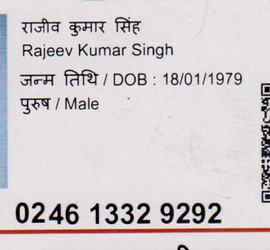
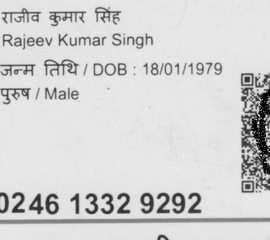
Implement Aadhar with GvisonAI

Changed region(s): [[0.0, 0.0, 1.0, 0.8167], [0.0, 0.7875, 1.0, 0.9625], [0.563, 0.9625, 0.7111, 1.0]]

diff --git a/Server/components/pancard.js b/Server/components/pancard.js
@@ -3,7 +3,7 @@ const sharp = require("sharp");
 const fs = require("fs");
 const finalCrop = require("../imageCrop/crop1");
 const { getPan, getDob, getGender, getName } = require("./getData");
-
+const { detectText } = require("../gVisionAI.js");
 const pancard = async (req, res) => {
   try {
     tessract
@@ -33,26 +33,38 @@ const pancard = async (req, res) => {
 };
 const readAadhar = async (req, res) => {
   try {
-    tessract
-      .recognize("./images/crop.png", "eng", {
-        logger: (m) => {
-          //console.log(m);
-        },
-      })
-      .then((result) => {
-        let getText = result.data.text;
-        let splitText = getText.split(/\n|:/);
-        let gender = getGender(splitText);
-        let dob = getDob(splitText);
-        console.log(splitText);
-        let data = {
-          name: getName(splitText),
-          dob: dob,
-          gender: gender,
-        };
-        res.send(data);
-        console.log(data);
-      });
+    // tessract
+    //   .recognize("./images/crop.png", "eng", {
+    //     logger: (m) => {
+    //       //console.log(m);
+    //     },
+    //   })
+    //   .then((result) => {
+    //     let getText = result.data.text;
+    //     let splitText = getText.split(/\n|:/);
+    //     let gender = getGender(splitText);
+    //     let dob = getDob(splitText);
+    //     console.log(splitText);
+    //     let data = {
+    //       name: getName(splitText),
+    //       dob: dob,
+    //       gender: gender,
+    //     };
+    //     res.send(data);
+    //     console.log(data);
+    //   });
+    await detectText("./images/crop.png").then((text) => {
+      let getText = text;
+      console.log(getText);
+      let splitText = getText.split(/\n|:/);
+      let data = {
+        name: getName(splitText),
+        dob: getDob(splitText),
+        gender: getGender(splitText),
+        adharno: getAdharno(splitText),
+      };
+      res.send(data);
+    });
   } catch (error) {
     console.log(error.message);
   }

diff --git a/Server/imageCrop/crop1.js b/Server/imageCrop/crop1.js
@@ -57,10 +57,11 @@ const adharCrop = async (req, res, next) => {
       const smallFile = "./images/image.png";
       const smallBuffer = fs.readFileSync(smallFile);
       sharp(smallBuffer)
-        .extract({ left: 140, top: 50, width: 270, height: 250 })
-        .normalize() // adjust the colors to make them more natural
-        .sharpen() // increase the sharpness of the image
-        .gamma(1.0)
+        .extract({ left: 160, top: 60, width: 270, height: 240 })
+        .greyscale()
+        // adjust the colors to make them more natural
+        // increase the sharpness of the image
+        .gamma(1.5)
         .toFormat("png")
         .toFile("./images/crop.png", (err, info) => {
           if (err) {

diff --git a/Server/gVisionAI.js b/Server/gVisionAI.js
@@ -1,0 +1,18 @@
+require("dotenv").config();
+const vision = require("@google-cloud/vision");
+const CONFIG2 = {
+  credentials: {
+    private_key: process.env.PRIVATE_KEY,
+    client_email: process.env.CLIENT_EMAIL,
+  },
+};
+const client = new vision.ImageAnnotatorClient(CONFIG2);
+
+const detectText = async (filepath) => {
+  const [result] = await client.textDetection(filepath);
+  return result.fullTextAnnotation.text;
+  //console.log(result.fullTextAnnotation.text);
+};
+console.log(process.env.TEST_KEY);
+//detectText("../images/crop.png");
+module.exports = { detectText };
